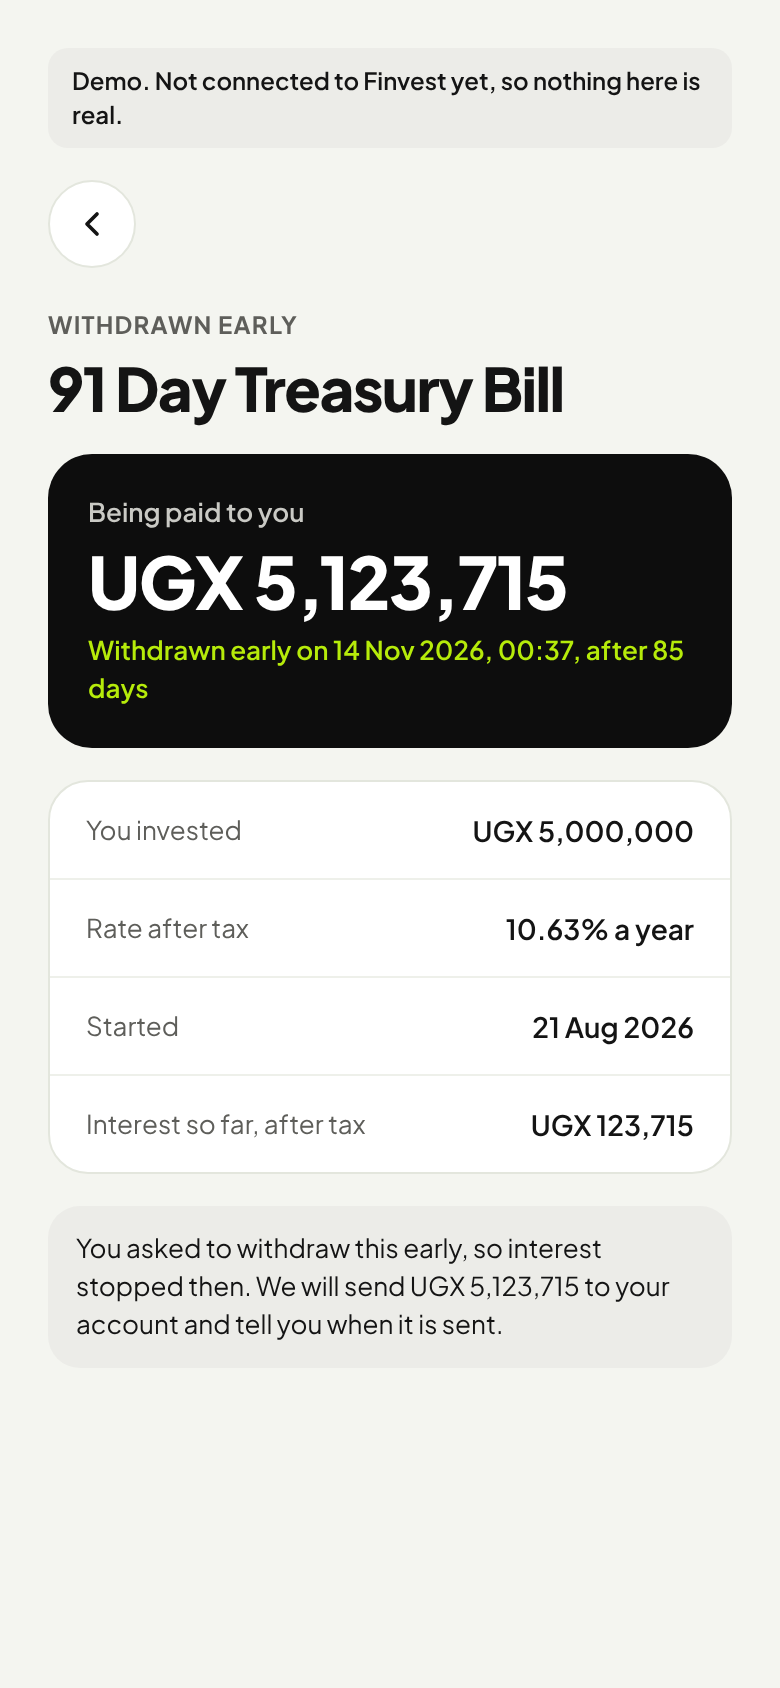
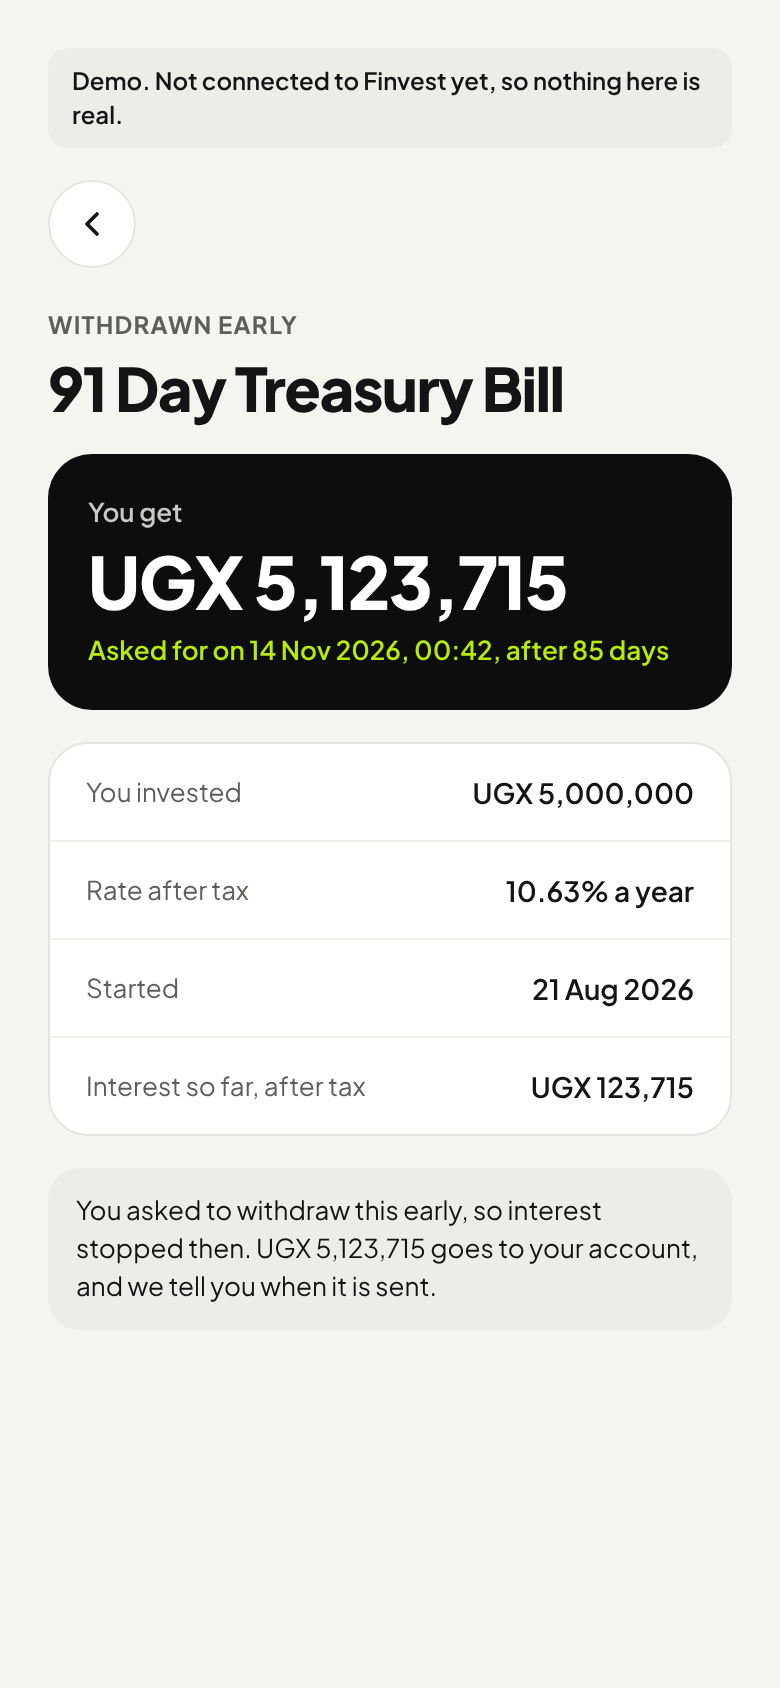
Read an early withdrawal as the API reports it, in words true after
The API keeps an investment active after the client asks to withdraw it
early, until the worker moves the money. The demo now does the same, and
the investment screen and the portfolio row read "Withdrawn early" from
withdrawalRequestedAt rather than from the status. The words no longer
promise a payment still to come once it has been sent.

The demo can show a client with no approved account (?accounts=none) and
a lost answer (?withdraw=lost), with screenshots of both, and the CI grep
also keeps demo-account- out of a production build.

diff --git a/apps/client/src/investing/__tests__/stubInvestingClient.test.ts b/apps/client/src/investing/__tests__/stubInvestingClient.test.ts
@@ -1,5 +1,5 @@
 import { markDemoPaid } from "@/demo/payables";
-import { formatAmount, groupDigits, parseWholeAmount } from "@/investing/format";
+import { formatAmount, groupDigits, investmentLabel, parseWholeAmount } from "@/investing/format";
 import { createStubInvestingClient } from "@/investing/stubInvestingClient";
 import { InvestingError } from "@/investing/types";
 
@@ -110,7 +110,10 @@ describe("demo early withdrawal", () => {
     const { api, clock, id } = await running();
     expect(await api.getInvestment(id)).toMatchObject({ canWithdraw: true, value: ugx(1_000_582) });
     const after = await api.withdrawEarly({ investmentId: id, destinationId: "demo-account-mtn", idempotencyKey: "w1" });
-    expect(after).toMatchObject({ status: "withdrawn", canWithdraw: false, value: ugx(1_000_582) });
+    // As the API answers: still active, with the request recorded, until the money has moved.
+    expect(after).toMatchObject({ status: "active", canWithdraw: false, value: ugx(1_000_582) });
+    expect(after.withdrawalRequestedAt).toBe(new Date(clock.ms).toISOString());
+    expect(investmentLabel(after)).toBe("Withdrawn early");
     clock.ms += 5 * DAY_MS;
     expect((await api.getInvestment(id)).value).toEqual(ugx(1_000_582));
   });
@@ -119,7 +122,7 @@ describe("demo early withdrawal", () => {
     const { api, id } = await running();
     const request = { investmentId: id, destinationId: "demo-account-mtn", idempotencyKey: "w2" };
     await api.withdrawEarly(request);
-    await expect(api.withdrawEarly(request)).resolves.toMatchObject({ status: "withdrawn" });
+    await expect(api.withdrawEarly(request)).resolves.toMatchObject({ canWithdraw: false });
     await expect(api.withdrawEarly({ ...request, destinationId: "demo-account-bank" })).rejects.toMatchObject({
       code: "key_reused",
     });
@@ -136,6 +139,32 @@ describe("demo early withdrawal", () => {
       api.withdrawEarly({ investmentId: id, destinationId: "demo-account-bank", idempotencyKey: "w4" }),
     ).rejects.toMatchObject({ code: "account_not_ready" });
     expect((await api.getInvestment(id)).status).toBe("active");
+  });
+});
+
+describe("the demo's withdrawal states", () => {
+  it("can have no approved accounts", async () => {
+    const api = createStubInvestingClient({ delayMs: 0, sample: "empty", accounts: "none" });
+    expect(await api.listPayoutAccounts()).toEqual([]);
+  });
+
+  it("can lose the first answer, which a retry under the same key then gets", async () => {
+    const clock = { ms: Date.parse("2026-11-13T09:00:00Z") };
+    const api = createStubInvestingClient({ delayMs: 0, now: () => clock.ms, sample: "empty", loseFirstWithdrawal: true });
+    const saved = await api.requestInvestment({ productCode: "TREA-91", amount: ugx(1_000_000), atMaturity: null, idempotencyKey: "kl" });
+    markDemoPaid(saved.id, new Date(clock.ms).toISOString());
+    clock.ms += DAY_MS;
+    const request = { investmentId: saved.id, destinationId: "demo-account-mtn", idempotencyKey: "wl" };
+    await expect(api.withdrawEarly(request)).rejects.toMatchObject({ code: "unavailable" });
+    await expect(api.withdrawEarly(request)).resolves.toMatchObject({ withdrawalRequestedAt: expect.any(String) });
+  });
+});
+
+describe("investment labels", () => {
+  it("reads as withdrawn early from the request, whatever the status says", () => {
+    expect(investmentLabel({ status: "active", withdrawalRequestedAt: null })).toBe("Running");
+    expect(investmentLabel({ status: "active", withdrawalRequestedAt: "2026-11-14T10:00:00Z" })).toBe("Withdrawn early");
+    expect(investmentLabel({ status: "withdrawn", withdrawalRequestedAt: "2026-11-14T10:00:00Z" })).toBe("Withdrawn early");
   });
 });
 

diff --git a/apps/client/src/investing/stubInvestingClient.ts b/apps/client/src/investing/stubInvestingClient.ts
@@ -136,6 +136,10 @@ export type StubOptions = {
   now?: () => number;
   /** "empty" starts with no investments, as a new client does. */
   sample?: "default" | "empty";
+  /** "none" has no approved accounts, to show that state. */
+  accounts?: "default" | "none";
+  /** True loses the answer to the first withdrawal request, to show that state. */
+  loseFirstWithdrawal?: boolean;
 };
 
 export function createStubInvestingClient(options: StubOptions = {}): InvestingClient {
@@ -144,6 +148,7 @@ export function createStubInvestingClient(options: StubOptions = {}): InvestingC
   const stored = new Map<string, Stored>();
   const byKey = new Map<string, { id: string; request: string }>();
   const withdrawalKeys = new Map<string, string>();
+  let loseNextWithdrawal = options.loseFirstWithdrawal ?? false;
 
   const pause = () =>
     delayMs > 0 ? new Promise<void>((resolve) => setTimeout(resolve, delayMs)) : Promise.resolve();
@@ -185,10 +190,9 @@ export function createStubInvestingClient(options: StubOptions = {}): InvestingC
     const maturity = start && product.termDays !== null ? addDays(start, product.termDays) : null;
     const lapsed = !start && now() > entry.createdAtMs + PAY_WINDOW_MS;
     const matured = maturity !== null && today >= maturity;
-    const withdrawn = entry.withdrawnAtMs !== null;
-    const status: Investment["status"] = withdrawn
-      ? "withdrawn"
-      : lapsed
+    // Like the API: asking to withdraw early leaves it `active` with the request recorded. The
+    // backend's worker moves it to `withdrawn` later; the demo never does, so both read alike.
+    const status: Investment["status"] = lapsed
         ? "cancelled"
         : !start
           ? "awaiting_payment"
@@ -226,7 +230,7 @@ export function createStubInvestingClient(options: StubOptions = {}): InvestingC
       rolledIntoId: null,
       payoutId: null,
       waitingForDestination: false,
-      canWithdraw: status === "active" && (maturity === null || today < maturity),
+      canWithdraw: status === "active" && entry.withdrawnAtMs === null && (maturity === null || today < maturity),
       withdrawalRequestedAt: entry.withdrawnAtMs === null ? null : new Date(entry.withdrawnAtMs).toISOString(),
     };
   }
@@ -328,7 +332,7 @@ export function createStubInvestingClient(options: StubOptions = {}): InvestingC
 
     async listPayoutAccounts() {
       await pause();
-      return demoAccounts(now());
+      return options.accounts === "none" ? [] : demoAccounts(now());
     },
 
     async withdrawEarly(request) {
@@ -356,6 +360,11 @@ export function createStubInvestingClient(options: StubOptions = {}): InvestingC
       }
       entry.withdrawnAtMs = now();
       withdrawalKeys.set(request.idempotencyKey, details);
+      if (loseNextWithdrawal) {
+        // Saved, but the answer never arrived: a retry with the same key gets it.
+        loseNextWithdrawal = false;
+        throw new InvestingError("unavailable");
+      }
       return view(entry);
     },
   };

diff --git a/apps/client/src/app/investment/[id].tsx b/apps/client/src/app/investment/[id].tsx
@@ -7,7 +7,7 @@ import { Notice } from "@/components/Blocks";
 import { Button } from "@/components/Button";
 import { Screen } from "@/components/Screen";
 import { Eyebrow, Title, Txt } from "@/components/Txt";
-import { atMaturityLabel, formatAmount, formatDay, statusLabel } from "@/investing/format";
+import { atMaturityLabel, formatAmount, formatDay, investmentLabel } from "@/investing/format";
 import { useInvesting } from "@/investing/InvestingProvider";
 import { Failed } from "@/investing/Parts";
 import { Investment } from "@/investing/types";
@@ -87,7 +87,7 @@ function Body({ investment }: { investment: Investment }) {
   return (
     <View style={{ marginTop: 20, gap: 16 }}>
       <View style={{ gap: 6 }}>
-        <Eyebrow>{statusLabel[investment.status]}</Eyebrow>
+        <Eyebrow>{investmentLabel(investment)}</Eyebrow>
         <Title>{investment.productName}</Title>
       </View>
       <View style={{ backgroundColor: colors.black, borderRadius: 22, padding: 20, gap: 4 }}>
@@ -95,7 +95,7 @@ function Body({ investment }: { investment: Investment }) {
           {investment.status === "awaiting_payment"
             ? "To pay"
             : investment.withdrawalRequestedAt
-              ? "Being paid to you"
+              ? "You get"
               : "Worth today"}
         </Txt>
         <Txt size={36} weight="extrabold" lineHeight={42} color={colors.white} style={{ letterSpacing: -0.8 }}>
@@ -105,7 +105,7 @@ function Body({ investment }: { investment: Investment }) {
           {investment.status === "awaiting_payment"
             ? `Pay by ${formatDateTime(investment.payBy)} to keep this rate`
             : investment.withdrawalRequestedAt
-              ? `Withdrawn early on ${formatDateTime(investment.withdrawalRequestedAt)}, after ${investment.daysEarned} days`
+              ? `Asked for on ${formatDateTime(investment.withdrawalRequestedAt)}, after ${investment.daysEarned} days`
               : investment.interestToday.minor > 0
               ? `+${formatAmount(investment.interestToday)} today, ${investment.daysEarned} days earned`
               : `${investment.daysEarned} days earned`}
@@ -114,7 +114,7 @@ function Body({ investment }: { investment: Investment }) {
       <DetailList rows={rows} />
       {investment.withdrawalRequestedAt ? (
         <Notice tone="neutral">
-          {`You asked to withdraw this early, so interest stopped then. We will send ${formatAmount(investment.value)} to your account and tell you when it is sent.`}
+          {`You asked to withdraw this early, so interest stopped then. ${formatAmount(investment.value)} goes to your account, and we tell you when it is sent.`}
         </Notice>
       ) : null}
       {investment.waitingForDestination ? (

diff --git a/apps/client/src/__tests__/investFlow.test.tsx b/apps/client/src/__tests__/investFlow.test.tsx
@@ -243,8 +243,9 @@ describe("withdrawing early", () => {
 
     await fireEvent.press(screen.getByTestId("confirm-withdraw"));
 
-    expect(await screen.findByText("Being paid to you")).toBeTruthy();
-    expect(screen.getByText(/We will send UGX 5,123,715 to your account/)).toBeTruthy();
+    expect(await screen.findByText(/UGX 5,123,715 goes to your account, and we tell you when it is sent/)).toBeTruthy();
+    expect(screen.getByText("Withdrawn early")).toBeTruthy();
+    expect(screen.queryByText("Running")).toBeNull();
     expect(screen.queryByTestId("withdraw-early")).toBeNull();
     expect(mockWithdraw).toHaveBeenCalledTimes(1);
     expect(mockWithdraw.mock.calls[0][0]).toMatchObject({ destinationId: "demo-account-mtn" });
@@ -258,8 +259,26 @@ describe("withdrawing early", () => {
     expect(screen.getByTestId("account-demo-account-mtn").props.accessibilityState).toMatchObject({ disabled: true });
 
     await fireEvent.press(screen.getByTestId("confirm-withdraw"));
-    expect(await screen.findByText("Being paid to you")).toBeTruthy();
+    expect(await screen.findByText(/goes to your account, and we tell you when it is sent/)).toBeTruthy();
     const [first, second] = mockWithdraw.mock.calls.map((call) => call[0].idempotencyKey);
     expect(second).toBe(first);
+  });
+});
+
+describe("after an early withdrawal", () => {
+  it("lists the investment as withdrawn early in the portfolio", async () => {
+    mockSample.value = "default";
+    await signIn();
+    await act(async () => {
+      router.push("/portfolio");
+    });
+    await fireEvent.press(await screen.findByLabelText(/^91 Day Treasury Bill, Running/));
+    await fireEvent.press(await screen.findByTestId("withdraw-early"));
+    await fireEvent.press(await screen.findByTestId("confirm-withdraw"));
+    await screen.findByText(/goes to your account/);
+    await act(async () => {
+      router.push("/portfolio");
+    });
+    expect(await screen.findByLabelText(/^91 Day Treasury Bill, Withdrawn early/)).toBeTruthy();
   });
 });

diff --git a/apps/client/src/investing/Parts.tsx b/apps/client/src/investing/Parts.tsx
@@ -6,7 +6,7 @@ import { Icon } from "@/components/Icon";
 import { Txt } from "@/components/Txt";
 import { colors, fontSizes, radii } from "@/theme";
 
-import { formatAmount, formatDay, kindLabel, statusLabel, termLabel } from "./format";
+import { formatAmount, formatDay, investmentLabel, kindLabel, termLabel } from "./format";
 import { Investment, Product } from "./types";
 
 /** One product in the list: its name, the rate after tax and the terms. */
@@ -73,14 +73,14 @@ export function InvestmentCard({ investment, onPress }: { investment: Investment
   return (
     <Pressable
       accessibilityRole="button"
-      accessibilityLabel={`${investment.productName}, ${statusLabel[investment.status]}, worth ${formatAmount(investment.value)}`}
+      accessibilityLabel={`${investment.productName}, ${investmentLabel(investment)}, worth ${formatAmount(investment.value)}`}
       onPress={onPress}
       testID={`investment-${investment.id}`}
       style={({ pressed }) => [styles.card, { alignItems: "flex-start" }, pressed && { opacity: 0.85 }]}
     >
       <View style={{ flex: 1, gap: 4 }}>
         <Txt size={fontSizes.xs} weight="bold" color={waiting ? colors.warningText : colors.muted}>
-          {statusLabel[investment.status]}
+          {investmentLabel(investment)}
         </Txt>
         <Txt size={fontSizes.lg} weight="bold">
           {investment.productName}

diff --git a/apps/client/src/investing/resolveInvesting.ts b/apps/client/src/investing/resolveInvesting.ts
@@ -19,7 +19,13 @@ function loadStub(): StubModule | null {
 
 /** Chooses what the investing screens talk to: the demo when it is switched on, otherwise the API. */
 export function resolveInvestingClient(stub: StubModule | null = loadStub()): InvestingClient {
-  return stub ? stub.createStubInvestingClient({ sample: demoSample() }) : createApiInvestingClient();
+  return stub ? stub.createStubInvestingClient({ sample: demoSample(), ...demoWithdrawal() }) : createApiInvestingClient();
+}
+
+/** On the web, `?accounts=none` has no approved accounts and `?withdraw=lost` loses the first withdrawal's answer. */
+function demoWithdrawal(): { accounts: "default" | "none"; loseFirstWithdrawal: boolean } {
+  const search = typeof window !== "undefined" ? (window.location?.search ?? "") : "";
+  return { accounts: search.includes("accounts=none") ? "none" : "default", loseFirstWithdrawal: search.includes("withdraw=lost") };
 }
 
 /** On the web, opening the demo at `/?sample=empty` starts as a new client with no investments. */

diff --git a/apps/client/src/investing/types.ts b/apps/client/src/investing/types.ts
@@ -152,7 +152,7 @@ const messages: Record<InvestingErrorCode, string> = {
   too_many_unpaid: "You have investments waiting to be paid for. Pay for one of those, or let it lapse, before starting another.",
   not_found: "We could not find that.",
   key_reused: "Something changed since you last tried. Go back and review your investment again.",
-  invalid: "We could not accept that investment. Go back, check the details and try again.",
+  invalid: "We could not accept that. Go back, check the details and try again.",
   cannot_withdraw: "This investment cannot be withdrawn early now. It may already be on its way to you, or it matures too soon.",
   account_not_ready: "That account cannot be paid yet. A new account can be paid one day after it is approved.",
   unavailable: "We could not reach Finvest. Check your connection and try again.",

diff --git a/apps/client/src/investing/format.ts b/apps/client/src/investing/format.ts
@@ -75,3 +75,11 @@ export const statusLabel: Record<InvestmentStatus, string> = {
   cancelled: "Not paid in time",
   withdrawn: "Withdrawn early",
 };
+
+/**
+ * What an investment shows as its state. Once an early withdrawal is asked for it reads
+ * "Withdrawn early", though the API keeps it `active` until the money has moved.
+ */
+export function investmentLabel(investment: { status: InvestmentStatus; withdrawalRequestedAt: string | null }): string {
+  return investment.withdrawalRequestedAt ? statusLabel.withdrawn : statusLabel[investment.status];
+}

diff --git a/apps/client/README.md b/apps/client/README.md
@@ -97,7 +97,7 @@ The investing screens talk to the `InvestingClient` interface in `src/investing/
 - `/invest` lists the products. `/invest/[code]` shows one, with a calculator: the amount typed is quoted after a short pause, and Review opens once the quote is back.
 - `/invest/review` saves the investment at today's rate under one idempotency key per request, so a double tap saves one investment, then replaces itself with the pay screen for that investment. After a try whose answer was lost, the choices are locked and the key is kept, so trying again is the same request. After a definite refusal nothing was saved, and the next try gets a new key. A fixed term asks what happens at the end: roll over (the default) or pay out.
 - `/portfolio` lists the client's investments with what each is worth today. `/investment/[id]` shows one, with interest so far, what it pays at maturity, and a Pay button while it waits for payment.
-- `/investment/withdraw/[id]` withdraws a running investment early. It shows exactly what comes back (the `value` the API sent: what was invested plus the interest after tax so far, no fee), lists the client's approved accounts with any still in their first day's safety wait shown but not choosable, and confirms under one idempotency key per request, locked after a lost answer as on the review screen. The investment then shows that it is being paid out, and interest has stopped. The Withdraw early button appears only when the API says `can_withdraw`, which stays false while `FINVEST_EARLY_WITHDRAWAL_OPEN` is off (backend/README.md). The demo lets every running investment be withdrawn.
+- `/investment/withdraw/[id]` withdraws a running investment early. It shows exactly what comes back (the `value` the API sent: what was invested plus the interest after tax so far, no fee), lists the client's approved accounts with any still in their first day's safety wait shown but not choosable, and confirms under one idempotency key per request, locked after a lost answer as on the review screen. The investment then reads "Withdrawn early" in the portfolio and on its own screen, following `withdrawalRequestedAt` (the API keeps it `active` until the money has moved), says interest stopped and that we tell the client when it is sent, and drops everything about maturity. The Withdraw early button appears only when the API says `can_withdraw`, which stays false while `FINVEST_EARLY_WITHDRAWAL_OPEN` is off (backend/README.md). The demo lets every running investment be withdrawn. On the web, `?accounts=none` shows a client with no approved account, and `?withdraw=lost` loses the first withdrawal's answer to show the locked retry.
 - The demo (`src/investing/stubInvestingClient.ts`) loads only in tests and in a build with `EXPO_PUBLIC_DEMO_AUTH=1`. It has two investments already running, works interest out as the backend does, and starts a term when the demo payment for it is confirmed (`src/demo/payables.ts` joins the two demos). Open `/?sample=empty` on the web to start as a client with no investments.
 
 Not built yet: changing what happens at maturity from the investment screen (it needs the payout destinations screens) and statements.
